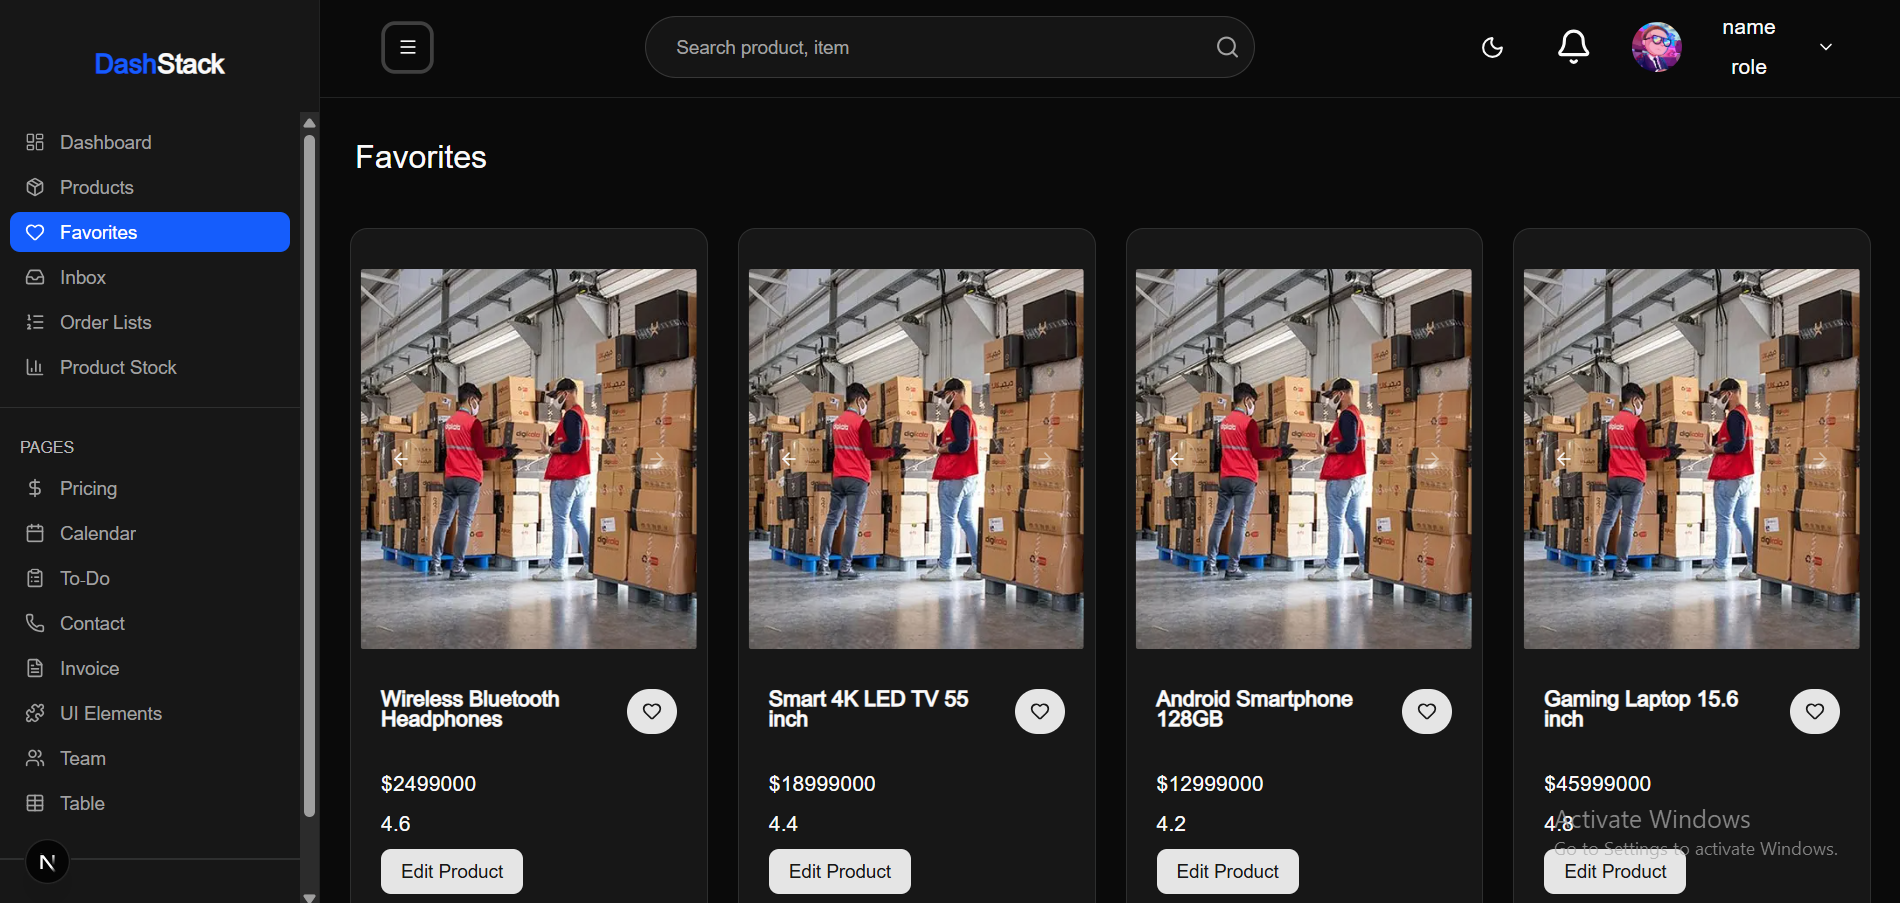
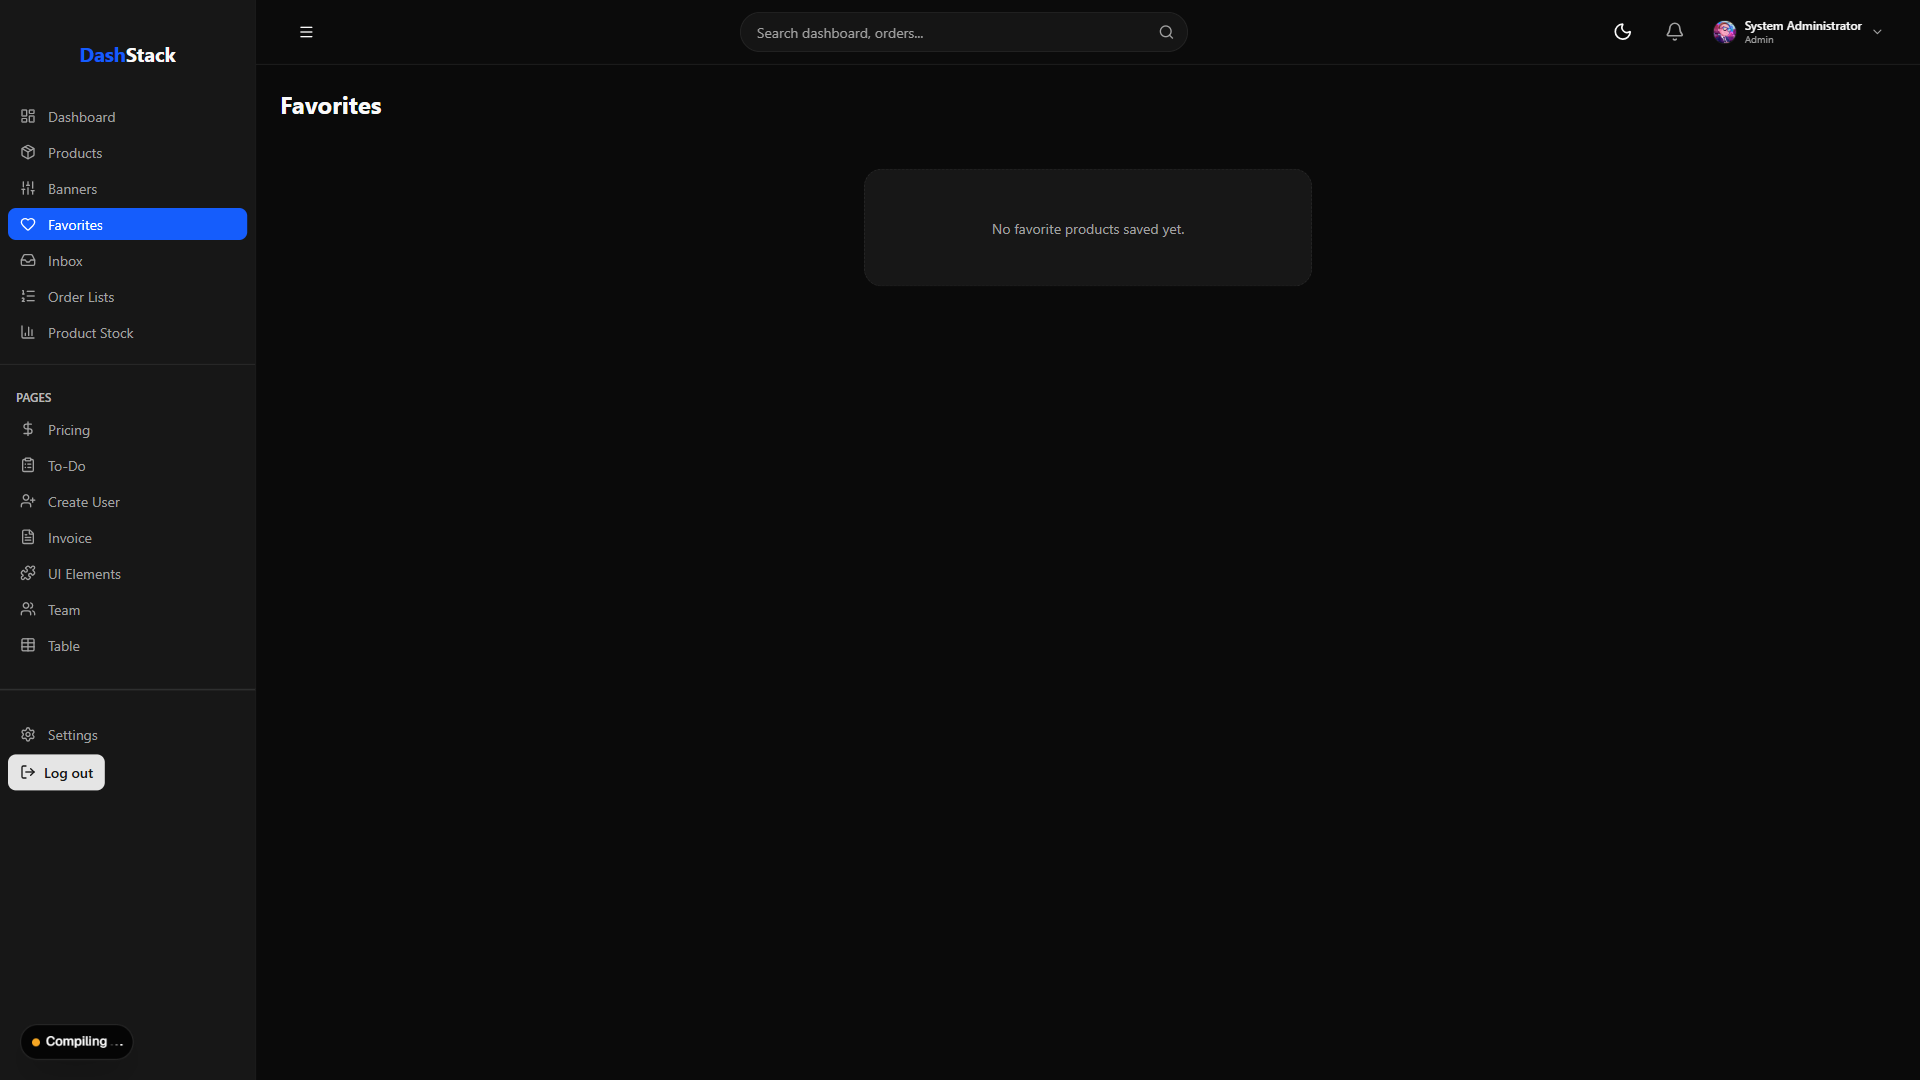
docs(readme): update README with FSD architecture, new route modules, and UI gallery

diff --git a/README.md b/README.md
@@ -75,6 +75,64 @@ The application follows a **Modular Monolith** pattern designed for 1,000,000+ a
   - **Category Sales**: Bar chart showcasing revenue contribution by product category.
 - **Recent Feeds**: Live transaction tables for recent checkouts and incoming customer inquiries.
 
+### 6. 🎨 Dynamic Content & Marketing Banners
+- **Banner Engine (`/dashboard/banners`)**: Admin management for hero carousels, promo cards, and flash sales.
+- **Dynamic Homepage Modules**: Live Digikala-inspired Incredible Offers, Brand Showcase, Quick Access Stories, and Story Viewer modal.
+- **Customer Pricing (`/pricing`)**: Tiered subscription plans with interactive billing switches and feature comparisons.
+
+---
+
+## 📸 Platform Gallery
+
+| Storefront & Offers | Product Discovery & Detail |
+| :---: | :---: |
+| ![Home](screenshots/home.png) | ![Product Detail](screenshots/product1.png) |
+
+| Executive Dashboard | Analytics & Real-Time Metrics |
+| :---: | :---: |
+| ![Dashboard Overview](screenshots/dashboard1.png) | ![Dashboard Analytics](screenshots/dashboard2.png) |
+
+| Support Inbox & Ticketing | Wishlist & Saved Items |
+| :---: | :---: |
+| ![Support Inbox](screenshots/inbox.png) | ![Customer Wishlist](screenshots/favorit.png) |
+
+| Customer Orders | User Provisioning & Administration |
+| :---: | :---: |
+| ![Order History](screenshots/order.png) | ![User Management](screenshots/contact.png) |
+
+---
+
+## 🏗 Architecture & Project Structure
+
+### Frontend Feature-Sliced Architecture (`frontend/features/`)
+```
+frontend/
+├── app/                              # Next.js App Router (Routing & Pages)
+│   ├── (auth)/                       # Login, Signup
+│   ├── (dashboard)/                  # Protected Admin Management & Analytics
+│   │   ├── dashboard/                # Main Dashboard & Banners Management
+│   │   ├── invoice/                  # Invoicing Overview
+│   │   ├── orderlists/               # Full Order Records
+│   │   ├── productstock/             # Inventory & Stock Levels
+│   │   ├── settings/                 # System Configurations
+│   │   ├── table/                    # Data Tables
+│   │   ├── team/                     # Team & Member Access
+│   │   └── todo/                     # Task Management
+│   └── (main)/                       # Customer Storefront (Home, Products, Cart, Pricing, Wishlist)
+└── features/                         # Modular Feature Slices
+    ├── auth/                         # Authentication, Session Guards, UserDropdown
+    ├── banners/                      # Promotional Banner Client & Dashboard Editor
+    ├── cart/                         # Redux Cart Drawer & Quantity Controls
+    ├── categories/                   # Category Tree & Catalog Filters
+    ├── dashboard/                    # KPI Metrics & Recharts Visualizations
+    ├── favorites/                    # Customer Wishlist with Optimistic Updates
+    ├── home/                         # Hero Sliders, Incredible Offers, Stories
+    ├── orders/                       # Order Placement & Tracking
+    ├── products/                     # Product Grid, Detail Client & Cards
+    ├── tickets/                      # Multi-pane Support Inbox & Notes
+    └── users/                        # User Administration & Profile Forms
+```
+
 ---
 
 ## 🛠 Tech Stack
@@ -82,10 +140,11 @@ The application follows a **Modular Monolith** pattern designed for 1,000,000+ a
 | Layer | Technologies |
 | :--- | :--- |
 | **Frontend Framework** | [Next.js 16.1.6](https://nextjs.org/) (App Router, Turbopack, React 19) |
+| **Architecture Pattern** | Feature-Sliced Design (FSD) with Strict Modular Boundaries |
 | **Frontend State** | [Redux Toolkit](https://redux-toolkit.js.org/) (UI State) & [TanStack Query v5](https://tanstack.com/query) (Server State) |
 | **Styling & UI** | [Tailwind CSS v4](https://tailwindcss.com/), [Shadcn UI](https://ui.shadcn.com/), [Lucide Icons](https://lucide.dev/) |
 | **Data Visualization**| [Recharts 2.15](https://recharts.org/) |
-| **Backend Framework** | [Golang 1.25+](https://go.dev/) & [Fiber v2](https://gofiber.io/) |
+| **Backend Framework** | [Golang 1.25+](https://go.dev/) & [Fiber v2](https://gofiber.io/) Clean Architecture |
 | **Database Access** | [SQLC](https://sqlc.dev/) (Type-Safe Compiled Raw SQL) & [pgx/v5](https://github.com/jackc/pgx) |
 | **Migrations** | [Goose](https://github.com/pressly/goose) Versioned SQL Migrations |
 | **Databases** | [PostgreSQL 16](https://www.postgresql.org/) & [Redis 7](https://redis.io/) |
